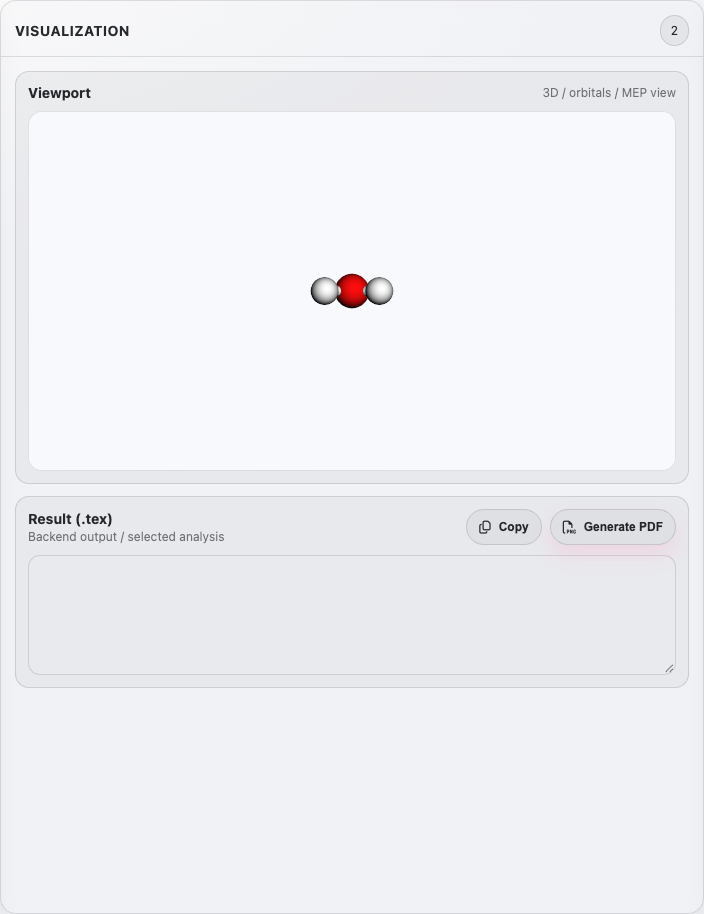
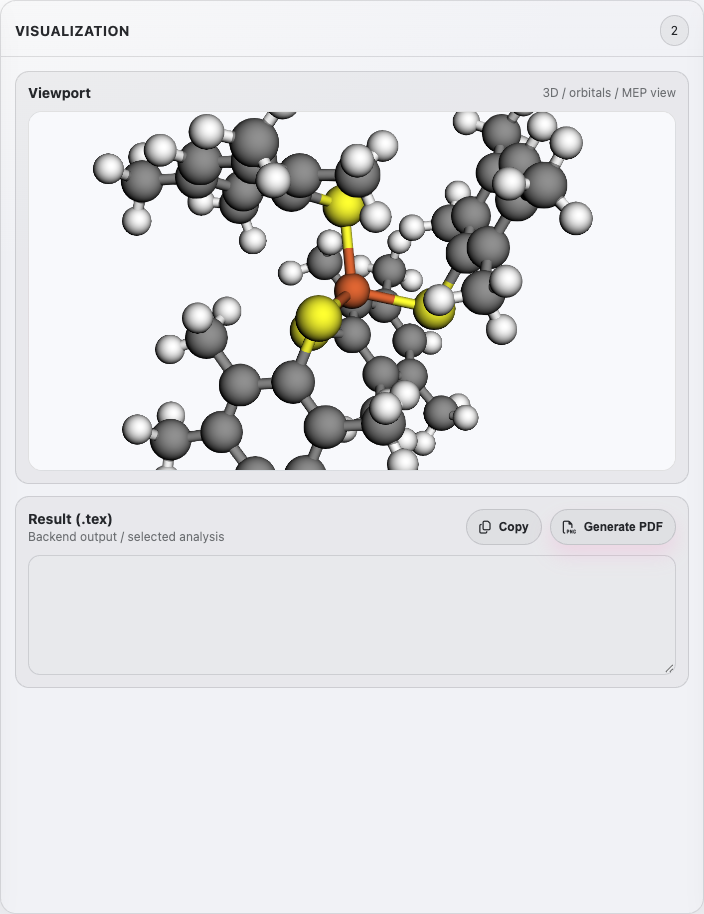
Update files

Changed region(s): [[0.125, 0.1225, 0.8438, 0.5208]]

diff --git a/_posts/2025-06-16-Molecular-Symmetry.md b/_posts/2025-06-16-Molecular-Symmetry.md
@@ -31,14 +31,14 @@ categories: [software]
 	<a href="{{ page.url | relative_url }}#report">Report</a>
 	<a href="{{ page.url | relative_url }}#custom">Custom XYZ</a>
 </nav>
-<p>The screenshots use the English interface and water as a worked example. Choose <strong>PT</strong>, <strong>EN</strong> or <strong>ZH</strong> in the header to change the interface language. The preference is saved in your browser; molecular identifiers, coordinates and backend-generated TeX/PDF content remain unchanged.</p>
-<p>The images use locally supplied water coordinates. The report screenshot contains an illustrative TeX example to demonstrate the interface, not a live backend analysis result.</p>
+<p>The screenshots use the English interface and <strong>Fe(III) tetrathiolate</strong>, a 97-atom coordination complex, as the main example. Choose <strong>PT</strong>, <strong>EN</strong> or <strong>ZH</strong> in the header to change the interface language. The preference is saved in your browser; molecular identifiers, coordinates and backend-generated TeX/PDF content remain unchanged.</p>
+<p>The molecular geometry comes from the project's <code>feiii_tetrathiolate.xyz</code> file and is loaded locally for these screenshots. The report screenshot contains an illustrative TeX example to demonstrate the interface, not a live backend analysis result.</p>
 
 <section id="idea">
 	<h3>From molecular shape to symmetry operations</h3>
 	<p>Developed in the context of the graduate course <strong>PGF5261, Group Theory Applied to Solids and Molecules</strong>, the project brings visual exploration and algebraic analysis into the same workspace. Its purpose is to make the connection between a molecular geometry and its symmetry group easier to investigate, discuss and document.</p>
 	<p>A symmetry operation leaves the structure indistinguishable from its original arrangement: equivalent atoms may exchange positions, but the molecular geometry is preserved. Rotations and reflections provide familiar examples. The report relates these operations to atom permutations and tables describing how operations combine.</p>
-	<p>Idealized water is a useful starting point: its bent geometry has a twofold rotation axis and two mirror planes, conventionally described by the point group <strong>C<sub>2v</sub></strong>. Use the 3D model to reason about that geometry, then compare your expectations with the report for the coordinates you actually supplied.</p>
+	<p>The Fe(III) tetrathiolate example makes that investigation tangible: locate the central iron atom, its four sulfur donors and the surrounding organic ligands. Compare the full ligand arrangement, not just the coordination center, before proposing a symmetry operation. A point-group assignment must be checked against the supplied coordinates rather than inferred from the compound's name.</p>
 	<aside class="guide-callout"><strong>A geometry-based investigation, not a quantum-chemistry calculation.</strong> The current controls visualize XYZ structures and request symmetry analyses. The viewport mentions orbitals and molecular electrostatic potential (MEP), but does not offer those calculations. Editing coordinates updates the geometry; it does not optimize the molecule's energy or relax its structure.</aside>
 </section>
 
@@ -46,14 +46,14 @@ categories: [software]
 	<div class="step-heading"><span class="step-number">01</span><h3>Choose a molecular system</h3></div>
 	<p>Open the application and use <strong>Choose a molecule</strong> to select a structure from the available catalog. The <strong>Input / Coordinates</strong> field fills with its XYZ data, and the molecular viewer updates automatically. The catalog is loaded from the backend, so its contents depend on the deployed service.</p>
 	<p>The workspace separates three tasks: selecting or entering the molecule, inspecting its geometry and choosing an analysis. Start with a familiar structure and check the atom count and coordinates before interpreting its symmetry.</p>
-	{% include software-figure.html folder="molecular-symmetry" file="molsym01.png" alt="English Molecular Symmetry workspace with molecule selection, XYZ coordinates and a water model" caption="Load a molecular structure and inspect the XYZ coordinates alongside its 3D view." %}
+	{% include software-figure.html folder="molecular-symmetry" file="molsym01.png" alt="English Molecular Symmetry workspace with Fe III tetrathiolate selected and its 97-atom XYZ structure" caption="Fe(III) tetrathiolate: inspect the original 97-atom geometry alongside its XYZ coordinates." %}
 </section>
 
 <section id="viewer">
 	<div class="step-heading"><span class="step-number">02</span><h3>Explore the geometry in 3D</h3></div>
 	<p>Choose <strong>Graphics</strong> to access the display controls. Rotate and zoom the model to inspect its arrangement from different angles. Try locating equivalent atoms, a possible rotation axis or a mirror plane before requesting the algebraic analysis.</p>
 	<p>Turn off <strong>Automatic rotation</strong> to hold an orientation while inspecting it or taking a screenshot. <strong>Reset view</strong> refits the model and stops automatic rotation. These actions change the presentation, not the XYZ coordinates submitted for analysis.</p>
-	{% include software-figure.html folder="molecular-symmetry" file="molsym02.png" alt="Water displayed as an interactive Ball and Stick model in the English 3D viewer" caption="Inspect the geometry from different angles; changing the camera does not modify the coordinates." %}
+	{% include software-figure.html folder="molecular-symmetry" file="molsym02.png" alt="Fe III tetrathiolate displayed as a Ball and Stick model with an oblique view of its metal center and ligands" caption="An oblique Ball & Stick view reveals the metal center and surrounding ligands without changing the geometry." %}
 </section>
 
 <section id="appearance">
@@ -64,7 +64,7 @@ categories: [software]
 		<li><strong>Display:</strong> show or hide hydrogens, enable atom labels, toggle automatic rotation and change the viewer background.</li>
 	</ul>
 	<p>The header's theme button changes the application theme. <strong>Dark background</strong> is a separate control for the molecular viewport. Hiding hydrogen atoms changes only what is displayed; it does not remove them from the input used by the backend.</p>
-	{% include software-figure.html folder="molecular-symmetry" file="molsym03.png" alt="English representation, palette and display controls with labeled atoms on a water model" caption="Tune the representation and labels while keeping the underlying molecular geometry unchanged." %}
+	{% include software-figure.html folder="molecular-symmetry" file="molsym03.png" alt="English display controls and Fe III tetrathiolate in vibrant element colors with hydrogens hidden" caption="Hide hydrogens and use element colors to make the iron, sulfur donors and ligand framework easier to inspect." %}
 </section>
 
 <section id="analysis">
@@ -89,14 +89,14 @@ categories: [software]
 	<div class="step-heading"><span class="step-number">05</span><h3>Reuse the TeX result or generate a PDF</h3></div>
 	<p>The backend returns the report as TeX source in <strong>Result (.tex)</strong>. Choose <strong>Copy</strong> to place that source on the clipboard or <strong>Generate PDF</strong> to request its compilation. The PDF opens in another tab, where the browser provides save and print actions. Allow pop-ups if the report tab is blocked.</p>
 	<p>The interface language does not rewrite the report. Its scientific notation, text and formatting come from the backend. If analysis or compilation fails, read the displayed error and check your input; preserve any available TeX so it can be inspected or compiled separately.</p>
-	{% include software-figure.html folder="molecular-symmetry" file="molsym05.png" alt="English report panel displaying illustrative water TeX source with Copy and Generate PDF buttons" caption="Illustrative TeX example, not a live analysis result: Copy reuses the source and Generate PDF requests compilation." %}
+	{% include software-figure.html folder="molecular-symmetry" file="molsym05.png" alt="English report panel displaying illustrative Fe III tetrathiolate TeX source with Copy and Generate PDF buttons" caption="Illustrative TeX example, not a live analysis result: Copy reuses the source and Generate PDF requests compilation." %}
 </section>
 
 <section id="custom">
 	<div class="step-heading"><span class="step-number">06</span><h3>Paste your own XYZ structure</h3></div>
 	<p>Select <strong>Other (specify)</strong> to unlock the coordinate field. Open your <code>.xyz</code> file in a text editor and paste its <strong>complete contents</strong>, not its filename or path. The first line is the number of atoms, the second is a comment, and the remaining lines contain an element symbol followed by three Cartesian coordinates.</p>
 	<p>Keep the comment line even when it is blank, use decimal points in the numeric fields and check that the declared atom count matches the coordinate rows. The viewer updates as you edit. Inspect the structure before submitting it through the same Symmetry workflow.</p>
-	{% include software-figure.html folder="molecular-symmetry" file="molsym06.png" alt="Other specify selected with editable water XYZ coordinates and an updated 3D model" caption="Custom XYZ input uses the same viewer and report workflow as a catalog structure." %}
+	{% include software-figure.html folder="molecular-symmetry" file="molsym06.png" alt="Other specify selected with the complete Fe III tetrathiolate XYZ file in the editable coordinate field" caption="The same 97-atom complex can be entered as custom XYZ, using the same viewer and report workflow." %}
 	<details>
 		<summary>A minimal XYZ example: water</summary>
 		<p>This symmetric example uses coordinates in angstroms. The two hydrogens lie at equal distances from oxygen.</p>
